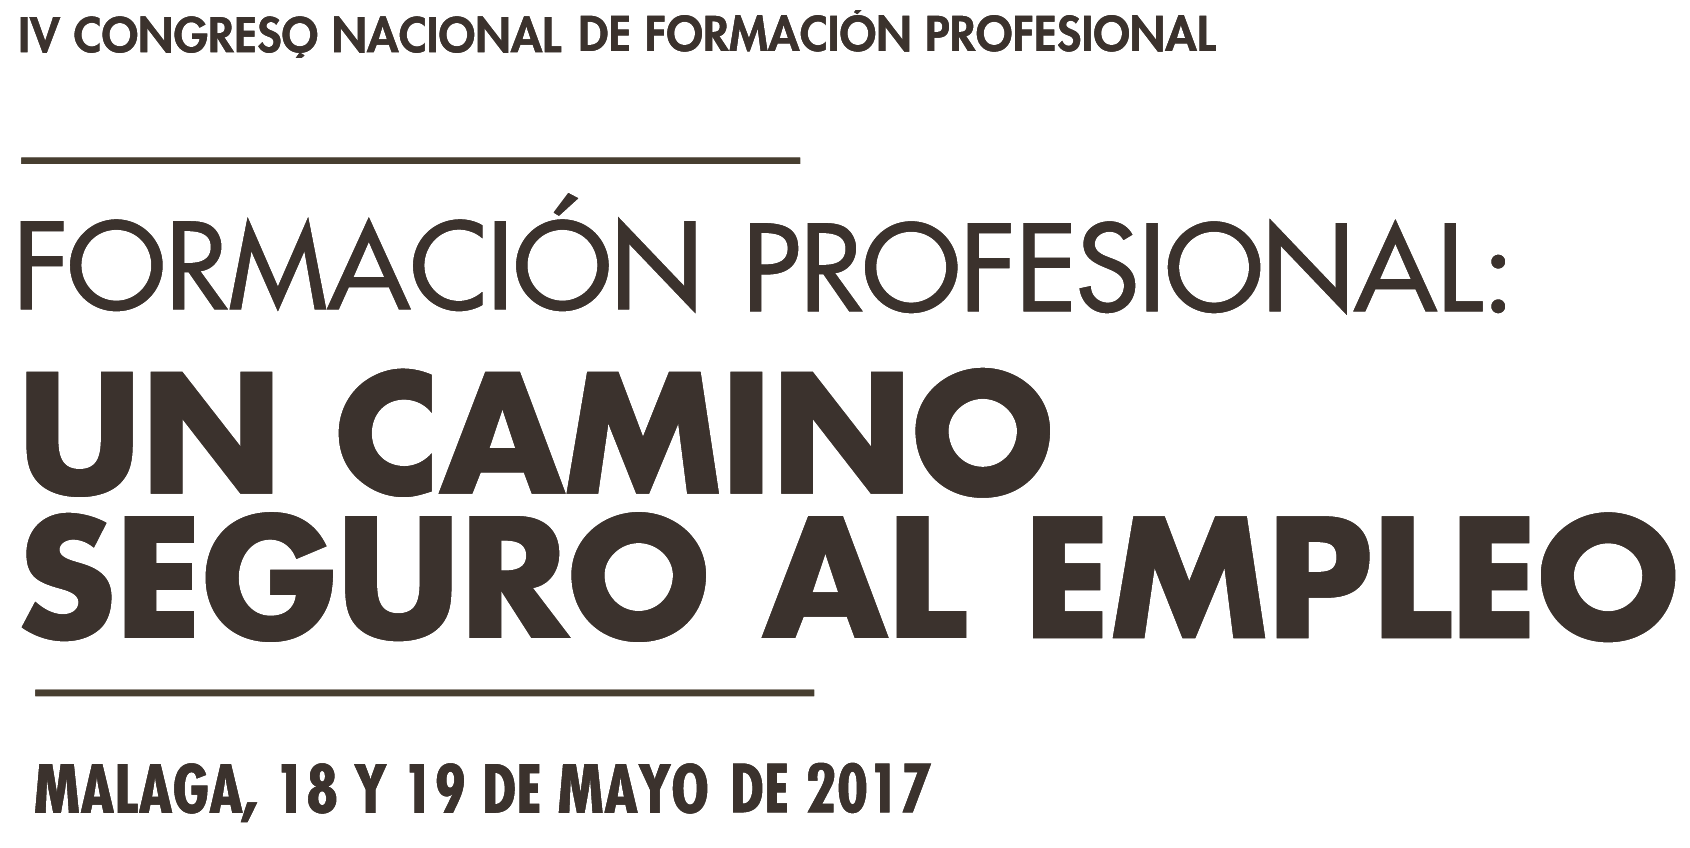
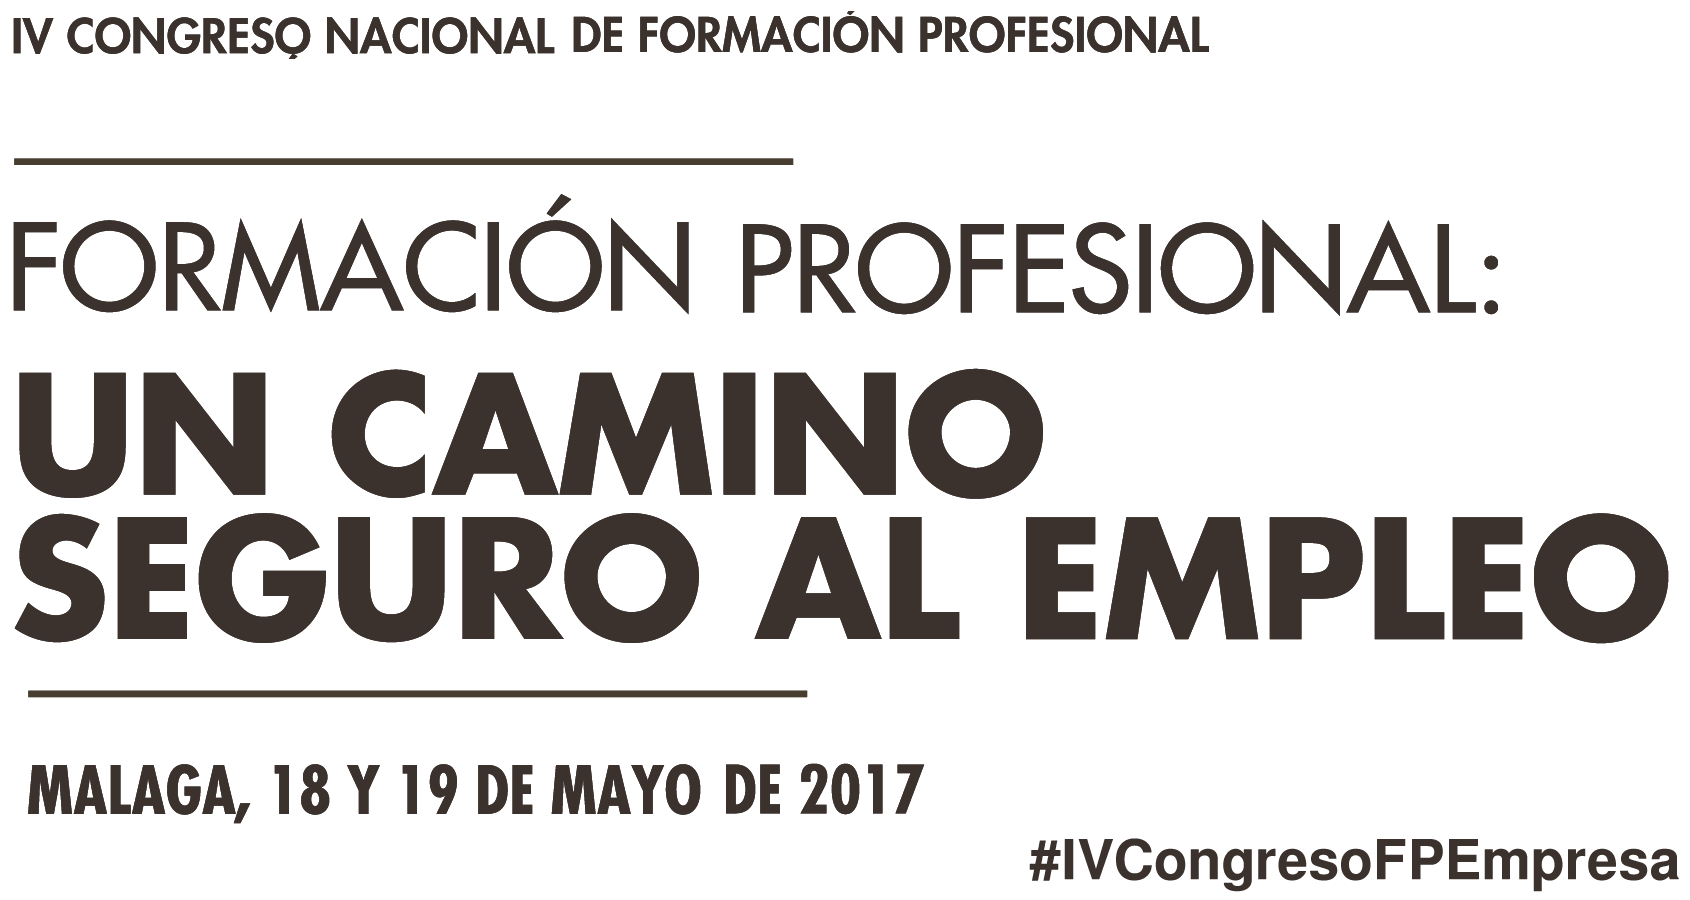
feat: twitter

diff --git a/index.html b/index.html
@@ -552,7 +552,7 @@
         <footer  class="container-fluid section__container  section--background-color-dark section--color-light-high">
 
             <p class="section__text  section--color-light-high"  >
-                <a href="https://twitter.com/fp_empresa" target="_blank" class="social__icon"><i class="fa fa-twitter-square"></i></a>&nbsp;&nbsp;#congresofpmalaga
+                <a href="https://twitter.com/fp_empresa" target="_blank" class="social__icon section--color-light"><i class="fa fa-twitter-square"></i></a>&nbsp;&nbsp;#IVCongresoFPEmpresa
 <!--          <a href="https://www.facebook.com/asociacion.fpempresa" target="_blank" class="social__icon"><i class="fa fa-facebook-square"></i></a>&nbsp;&nbsp; 
                 <a href="https://plus.google.com/+FPempresaNet/posts" target="_blank" class="social__icon"><i class="fa fa-google-plus-square"></i></a> -->
                 <br>
